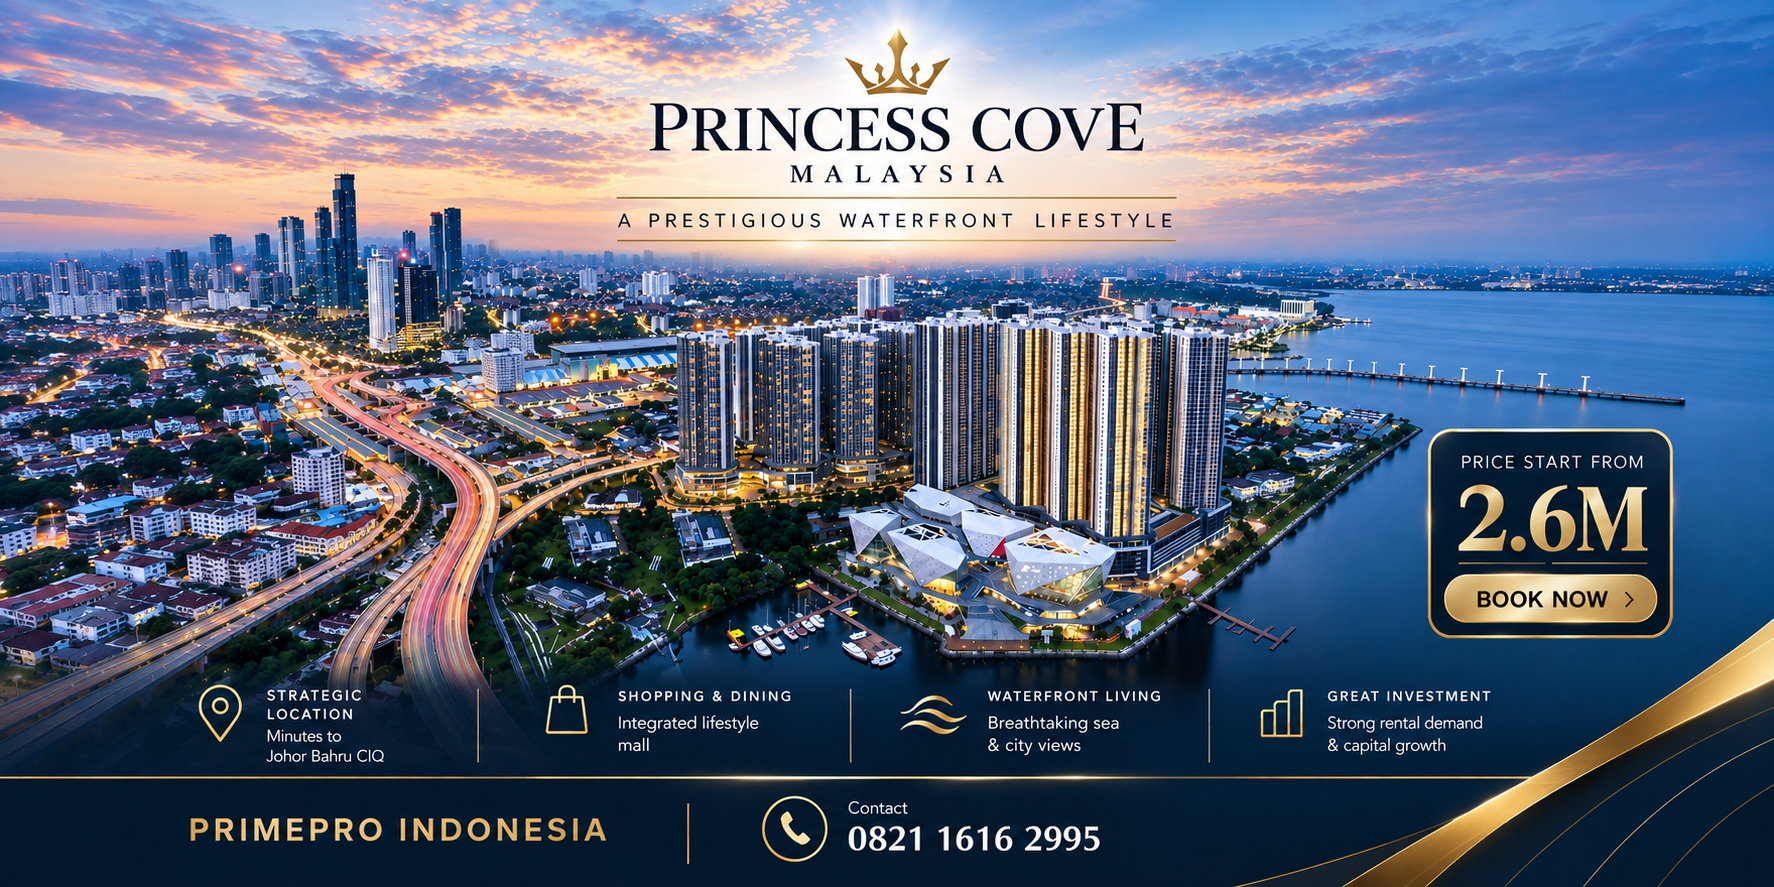
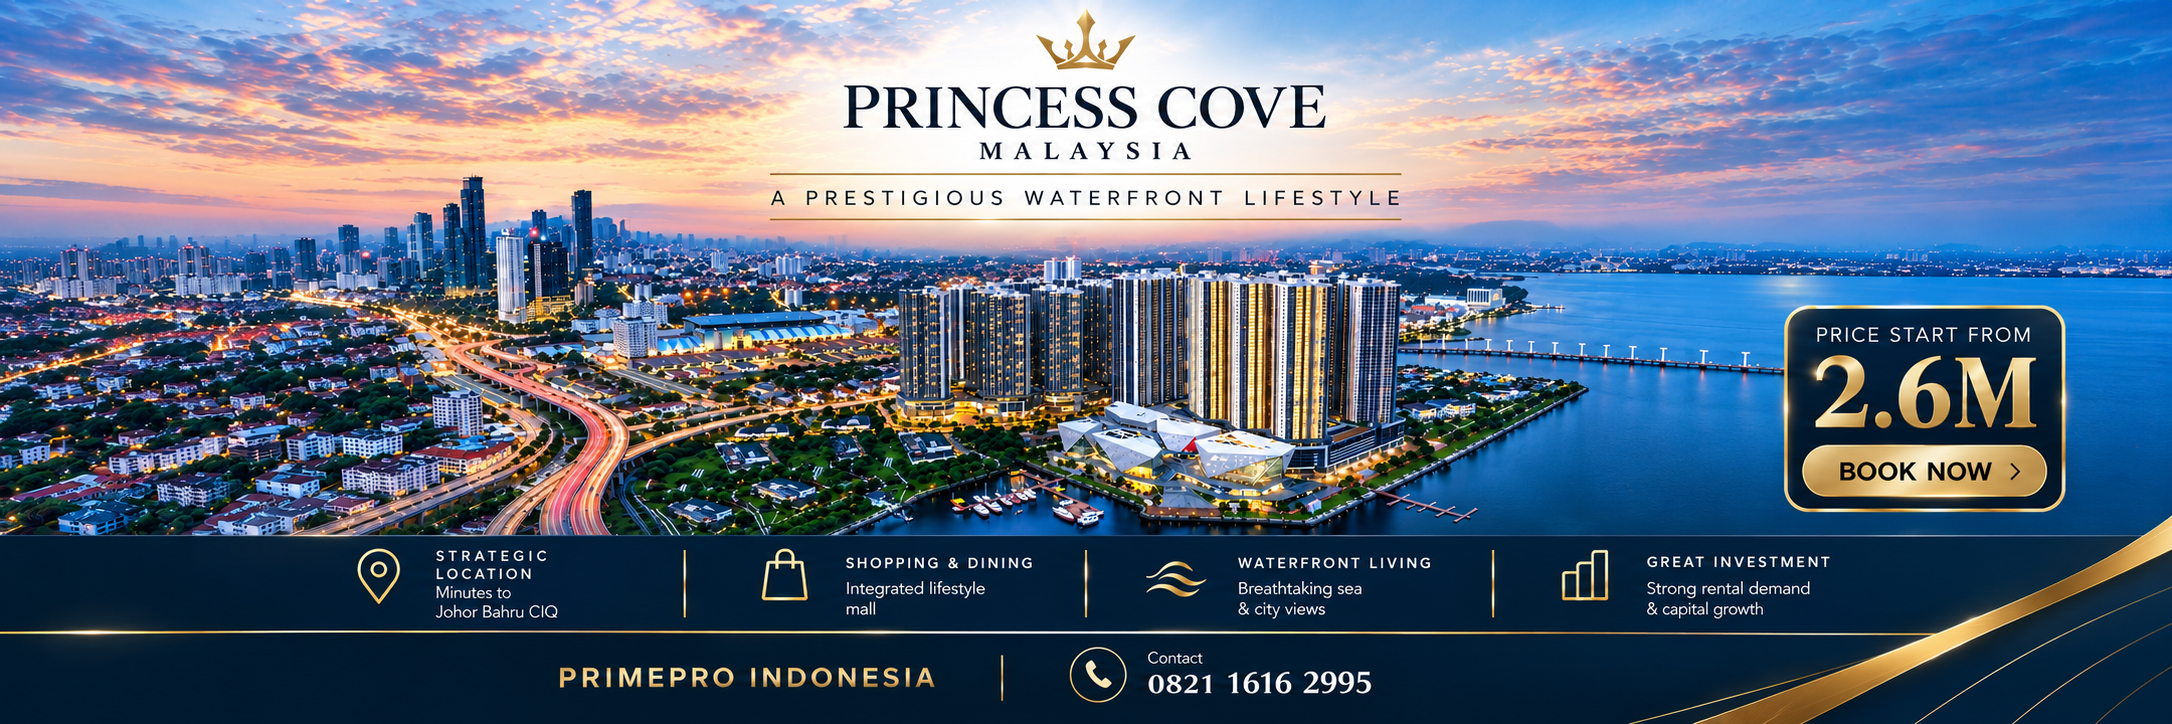
Update asset

diff --git a/src/app/(client)/_components/home-search.tsx b/src/app/(client)/_components/home-search.tsx
@@ -12,7 +12,7 @@ export const HomeSearch = () => (
     id="website"
   >
     <div>
-      <div className="mb-6 flex items-center gap-4">
+      <div className="flex items-center gap-4">
         <Image
           src="/images/primepro.png"
           alt="Logo PrimePro Indonesia"
@@ -21,18 +21,22 @@ export const HomeSearch = () => (
           sizes="(min-width: 768px) 80px, 64px"
           className="size-16 shrink-0 object-contain md:size-20"
         />
+        <div className="flex flex-col gap-4">
         <p className="text-xs font-bold uppercase tracking-[0.12em]">
           PrimePro Indonesia
         </p>
+        <h1
+          id="home-title"
+          className="min-w-0 text-balance font-sans text-[clamp(30px,3.2vw,44px)] font-normal leading-[1.15]"
+        >
+          Temukan properti pilihan Anda
+        </h1>
+        </div>
       </div>
-      <h1
-        id="home-title"
-        className="text-balance font-sans text-[clamp(30px,3.2vw,44px)] font-normal leading-[1.15]"
-      >
-        Temukan properti pilihan Anda
-      </h1>
       <p className="mt-5 max-w-[560px] leading-[1.7] text-muted-foreground">
-        PrimePro Indonesia adalah agen properti terpercaya di Jakarta yang memasarkan rumah, apartemen, tanah, dan properti komersial untuk dijual atau disewa. Temukan properti impianmu disini
+        PrimePro Indonesia adalah agen properti terpercaya di Jakarta yang
+        memasarkan rumah, apartemen, tanah, dan properti komersial untuk dijual
+        atau disewa. Temukan properti impianmu disini
       </p>
     </div>
     <div className="min-w-0 self-center rounded-lg bg-muted p-6">

diff --git a/src/components/custom-ui/banner.tsx b/src/components/custom-ui/banner.tsx
@@ -19,7 +19,7 @@ export const Banner = ({
       aria-label="Lihat Princess Cove, Malaysia"
       className={cn(
         "relative block w-full focus-visible:outline focus-visible:outline-2 focus-visible:outline-offset-4 focus-visible:outline-primary",
-        variant === "home" ? "aspect-[2/1]" : "h-48 sm:h-64 md:h-80 lg:h-96",
+        variant === "home" ? "aspect-[3/1]" : "h-48 sm:h-64 md:h-80 lg:h-96",
         className,
       )}
     >
